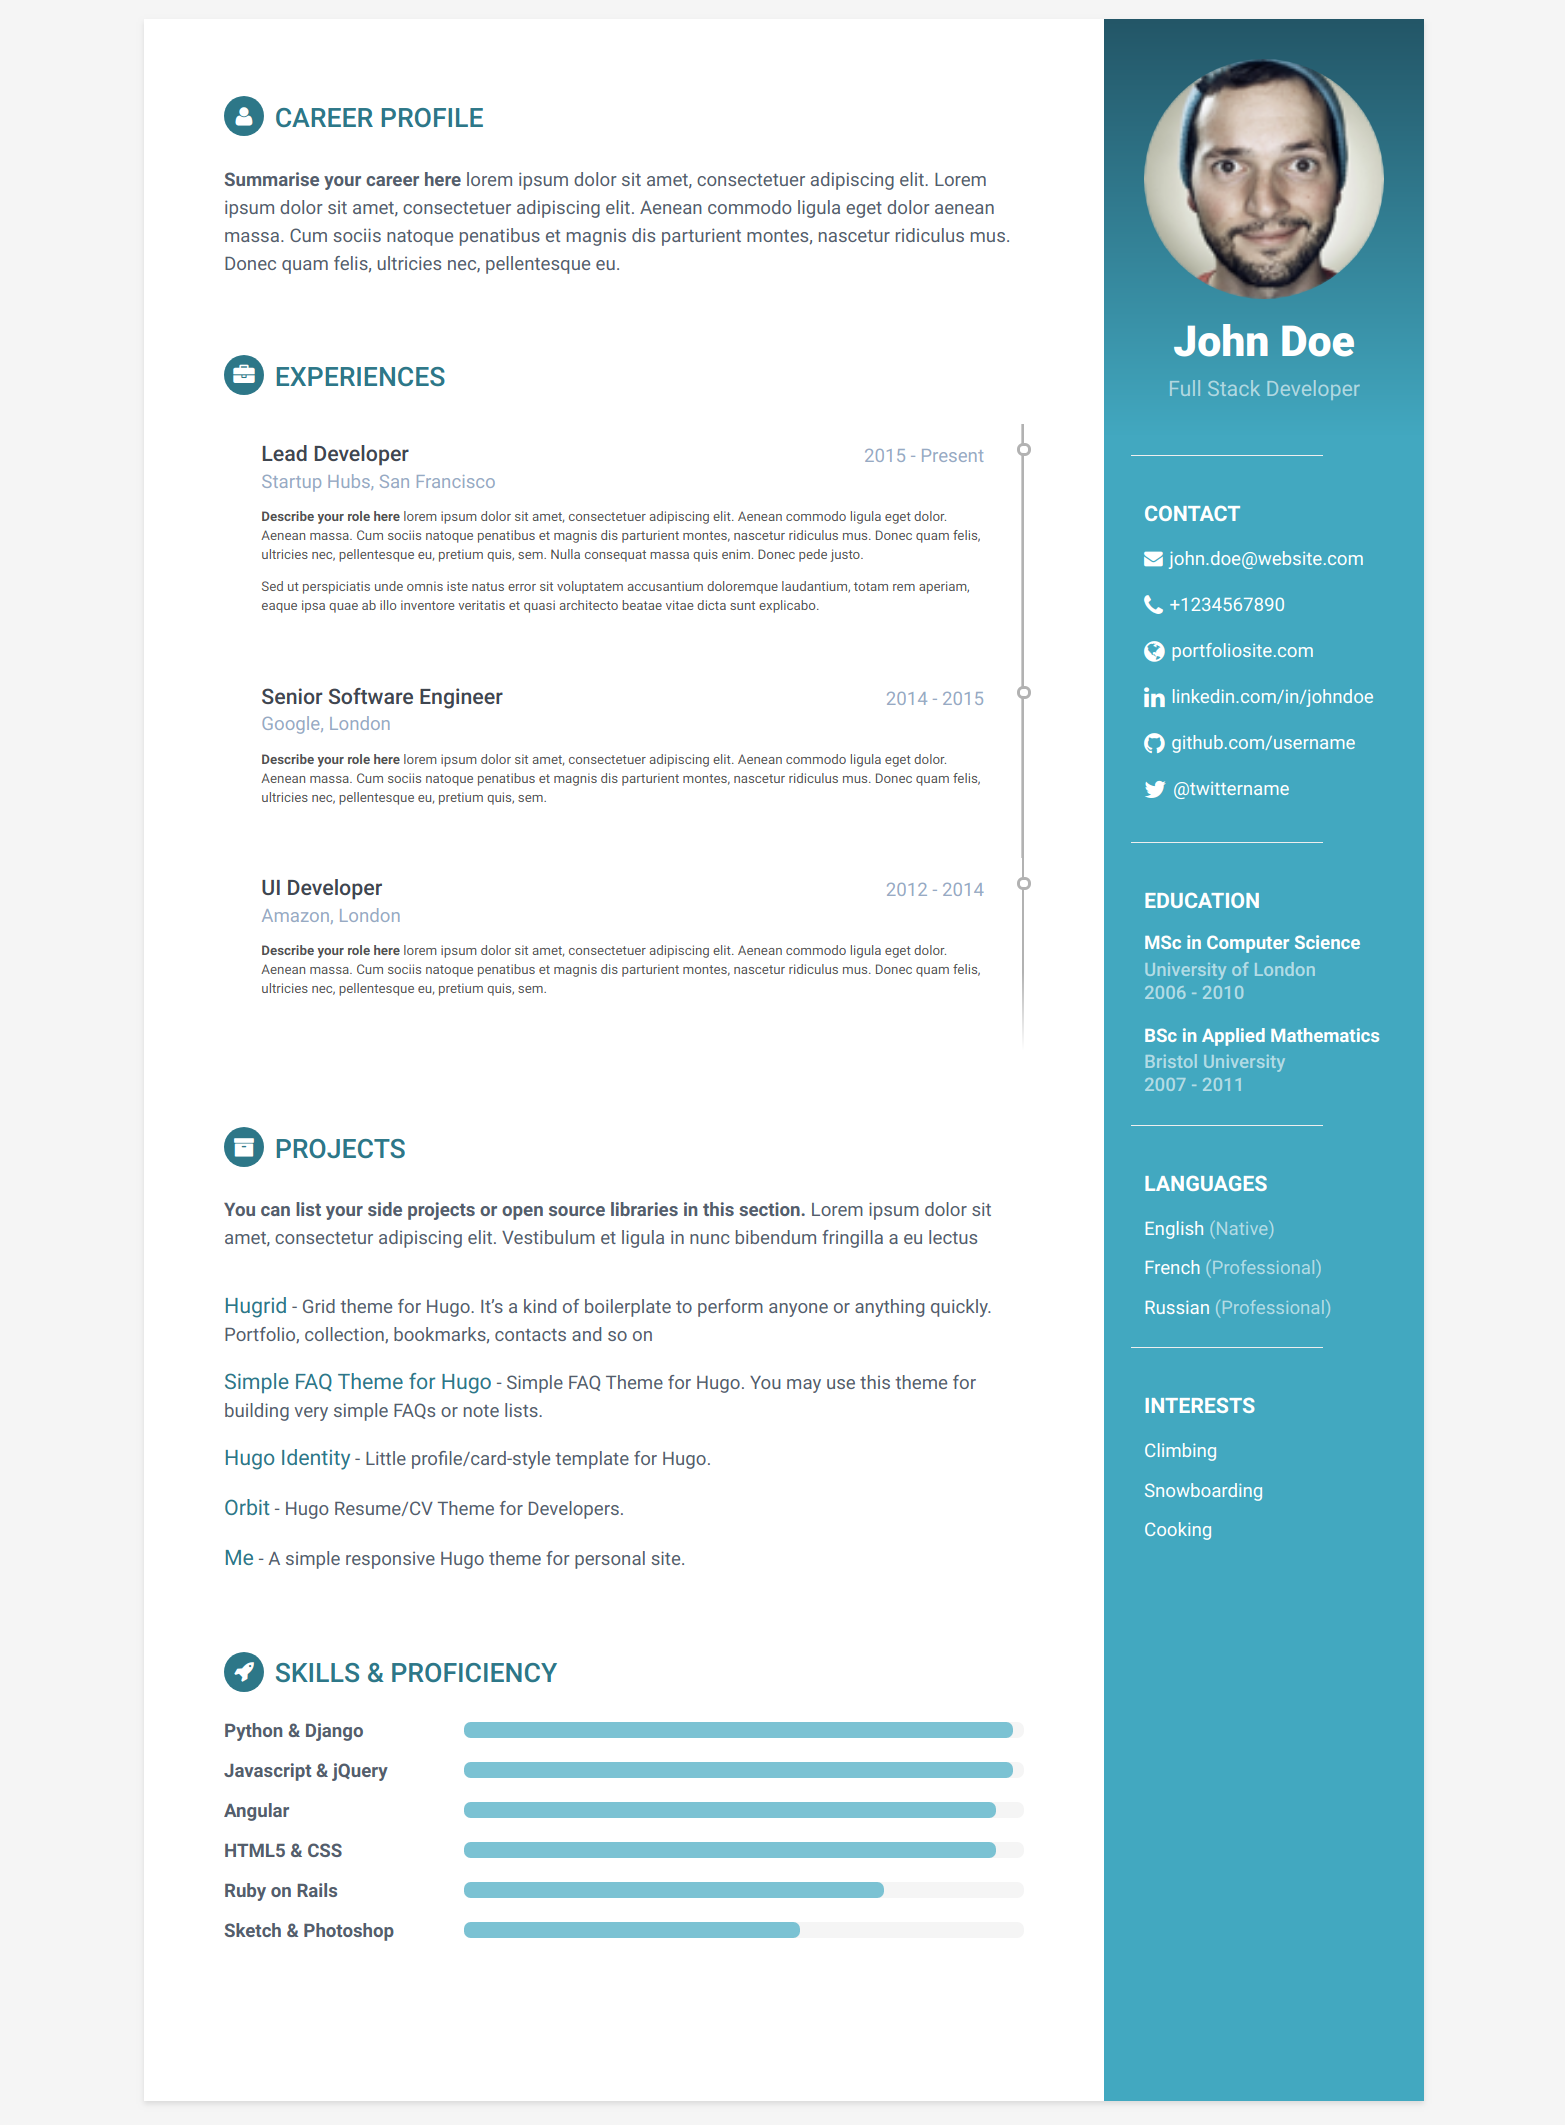
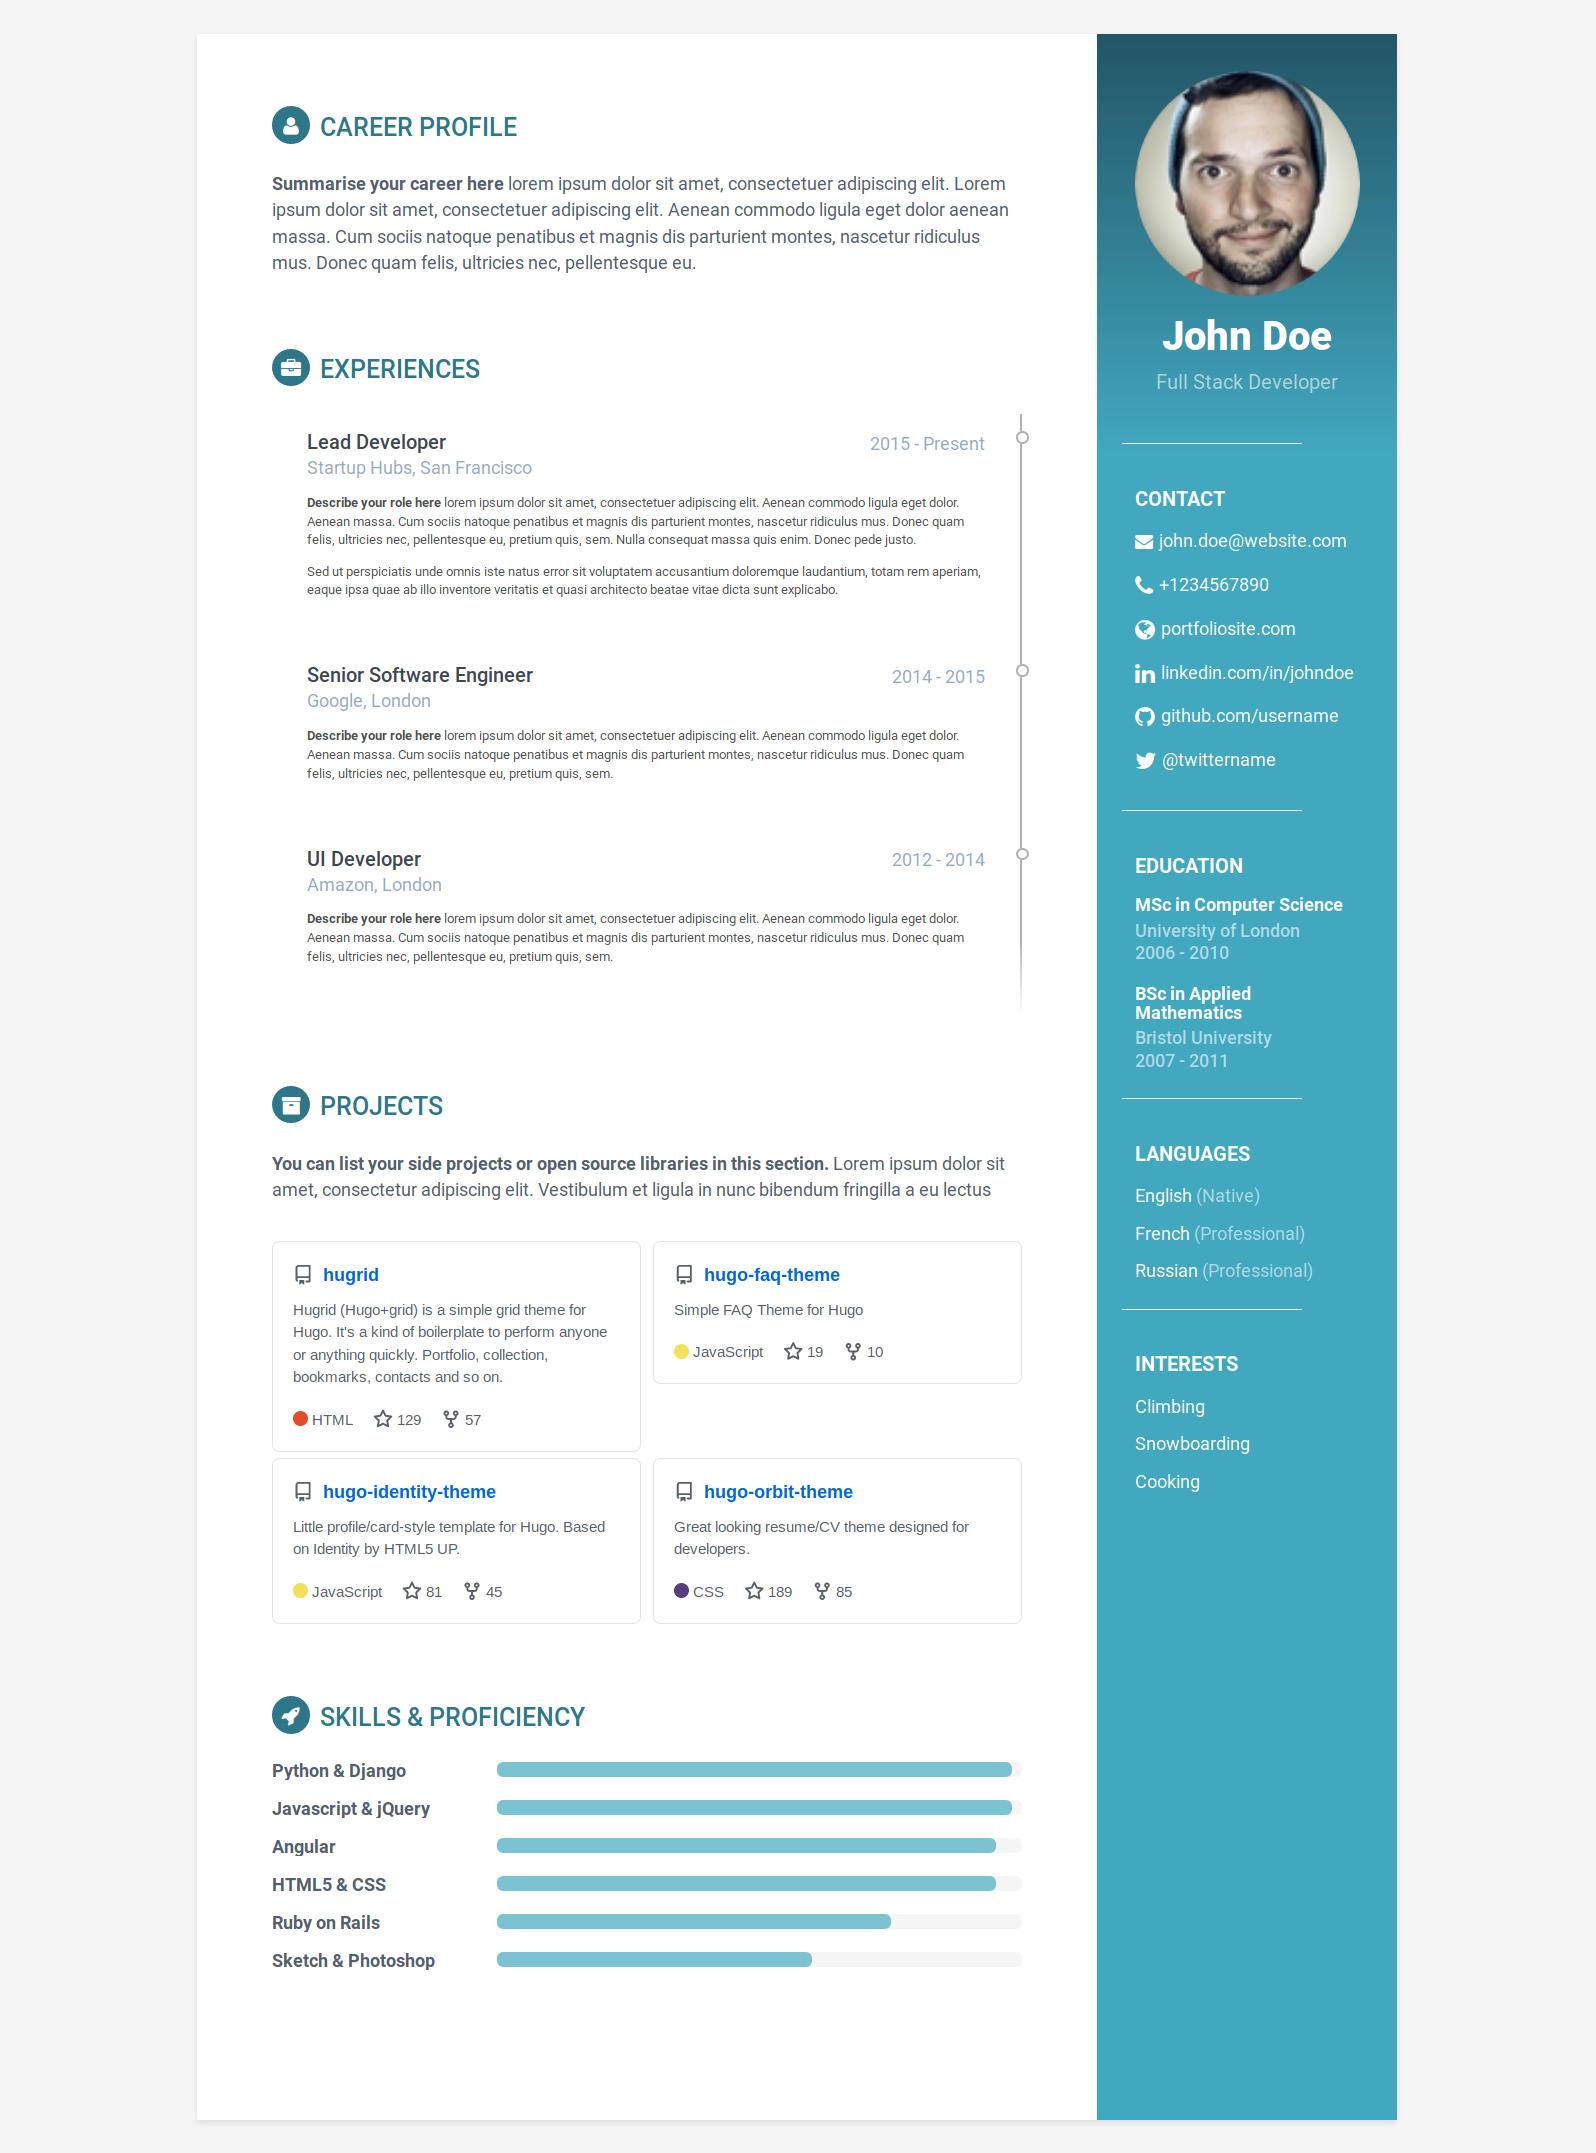
refactor: Update repo-card plugin

diff --git a/static/assets/plugins/repo-card/repo-card.js b/static/assets/plugins/repo-card/repo-card.js
@@ -1,0 +1,53 @@
+window.addEventListener('DOMContentLoaded', async function() {
+    async function get(url) {
+        const resp = await fetch(url);
+        return resp.json();
+    }
+
+    const emojis = await get('https://api.github.com/emojis');
+    const colors = await get('https://raw.githubusercontent.com/ozh/github-colors/master/colors.json');
+
+    document.querySelectorAll('.repo-card').forEach(async function(el) {
+        const name = el.getAttribute('data-repo');
+
+        const data = await get(`https://api.github.com/repos/${name}`);
+
+        data.description = (data.description || '').replace(/:\w+:/g, function(match) {
+            const name = match.substring(1, match.length - 1);
+            const emoji = emojis[name];
+
+            if (emoji) {
+                return `<span><img src="${emoji}" style="width: 1rem; height: 1rem; vertical-align: -0.2rem;"></span>`;
+            }
+
+            return match;
+        });
+
+        el.innerHTML = `
+    <div style="font-family: -apple-system,BlinkMacSystemFont,Segoe UI,Helvetica,Arial,sans-serif,Apple Color Emoji,Segoe UI Emoji; border: 1px solid #e1e4e8; border-radius: 6px; background: white; padding: 16px; font-size: 14px; line-height: 1.5; color: #24292e;">
+      <div style="display: flex; align-items: center;">
+        <svg style="fill: #586069; margin-right: 8px;" viewBox="0 0 16 16" version="1.1" width="16" height="16" aria-hidden="true"><path fill-rule="evenodd" d="M2 2.5A2.5 2.5 0 014.5 0h8.75a.75.75 0 01.75.75v12.5a.75.75 0 01-.75.75h-2.5a.75.75 0 110-1.5h1.75v-2h-8a1 1 0 00-.714 1.7.75.75 0 01-1.072 1.05A2.495 2.495 0 012 11.5v-9zm10.5-1V9h-8c-.356 0-.694.074-1 .208V2.5a1 1 0 011-1h8zM5 12.25v3.25a.25.25 0 00.4.2l1.45-1.087a.25.25 0 01.3 0L8.6 15.7a.25.25 0 00.4-.2v-3.25a.25.25 0 00-.25-.25h-3.5a.25.25 0 00-.25.25z"></path></svg>
+        <span style="font-weight: 600; color: #0366d6;">
+          <a style="text-decoration: none; color: inherit;" href="${data.html_url}">${data.name}</a>
+        </span>
+      </div>
+      <div style="display: ${data.fork ? 'block' : 'none'}; font-size: 12px; color: #586069;">Forked from <a style="color: inherit; text-decoration: none;" href="${data.fork ? data.source.html_url : ''}">${data.fork ? data.source.full_name : ''}</a></div>
+      <div style="font-size: 12px; margin-bottom: 16px; margin-top: 8px; color: #586069;">${data.description}</div>
+      <div style="font-size: 12px; color: #586069; display: flex;">
+        <div style="${data.language ? '' : 'display: none'}; margin-right: 16px;">
+          <span style="width: 12px; height: 12px; border-radius: 100%; background-color: ${data.language ? colors[data.language].color : ''}; display: inline-block; top: 1px; position: relative;"></span>
+          <span>${data.language}</span>
+        </div>
+        <div style="display: ${data.stargazers_count == 0 ? 'none' : 'flex'}; align-items: center; margin-right: 16px;">
+          <svg style="fill: #586069;" aria-label="stars" viewBox="0 0 16 16" version="1.1" width="16" height="16" role="img"><path fill-rule="evenodd" d="M8 .25a.75.75 0 01.673.418l1.882 3.815 4.21.612a.75.75 0 01.416 1.279l-3.046 2.97.719 4.192a.75.75 0 01-1.088.791L8 12.347l-3.766 1.98a.75.75 0 01-1.088-.79l.72-4.194L.818 6.374a.75.75 0 01.416-1.28l4.21-.611L7.327.668A.75.75 0 018 .25zm0 2.445L6.615 5.5a.75.75 0 01-.564.41l-3.097.45 2.24 2.184a.75.75 0 01.216.664l-.528 3.084 2.769-1.456a.75.75 0 01.698 0l2.77 1.456-.53-3.084a.75.75 0 01.216-.664l2.24-2.183-3.096-.45a.75.75 0 01-.564-.41L8 2.694v.001z"></path></svg>
+          &nbsp; <span>${data.stargazers_count}</span>
+        </div>
+        <div style="display: ${data.forks == 0 ? 'none' : 'flex'}; align-items: center;">
+          <svg style="fill: #586069;" aria-label="fork" viewBox="0 0 16 16" version="1.1" width="16" height="16" role="img"><path fill-rule="evenodd" d="M5 3.25a.75.75 0 11-1.5 0 .75.75 0 011.5 0zm0 2.122a2.25 2.25 0 10-1.5 0v.878A2.25 2.25 0 005.75 8.5h1.5v2.128a2.251 2.251 0 101.5 0V8.5h1.5a2.25 2.25 0 002.25-2.25v-.878a2.25 2.25 0 10-1.5 0v.878a.75.75 0 01-.75.75h-4.5A.75.75 0 015 6.25v-.878zm3.75 7.378a.75.75 0 11-1.5 0 .75.75 0 011.5 0zm3-8.75a.75.75 0 100-1.5.75.75 0 000 1.5z"></path></svg>
+          &nbsp; <span>${data.forks}</span>
+        </div>
+      </div>
+    </div>
+    `;
+    });
+});

diff --git a/layouts/partials/scripts.html b/layouts/partials/scripts.html
@@ -1,6 +1,6 @@
     <!-- Javascript -->          
     <script type="text/javascript" src="{{ .Site.BaseURL }}assets/plugins/jquery-1.11.3.min.js"></script>
     <script type="text/javascript" src="{{ .Site.BaseURL }}assets/plugins/bootstrap/js/bootstrap.min.js"></script>
-    <script src="https://tarptaeya.github.io/repo-card/repo-card.js"></script>
+    <script type="text/javascript" src="{{ .Site.BaseURL }}assets/plugins/repo-card/repo-card.js"></script>
     <!-- custom js -->
     <script type="text/javascript" src="{{ .Site.BaseURL }}assets/js/main.js"></script>

diff --git a/static/assets/plugins/repo-card/README.md b/static/assets/plugins/repo-card/README.md
@@ -1,0 +1,27 @@
+# Repo-Card
+:sunglasses: showcase :octocat: repositories on your website :metal:!
+
+## Demo
+<img src="https://github.com/Tarptaeya/repo-card/blob/master/screenshot.png" width=410></img>
+
+For a live demo, visit [https://tarptaeya.github.io/repo-card](https://tarptaeya.github.io/repo-card).
+
+## Usage
+```
+<!-- head -->
+<script src="https://tarptaeya.github.io/repo-card/repo-card.js"></script>
+
+
+<!-- inside body, where you want to create the card -->
+<div class="repo-card" data-repo="username/repository"></div>
+```
+
+## Features
+- Supports GitHub emojis
+- Supports language colors
+- Hides stars and forks when their count is 0.
+- Shows the source repository in case of fork.
+- Creates card similar to GitHub pinned repository's style
+
+### Thanks
+- [ozh/github-colors](https://github.com/ozh/github-colors) for providing GitHub colors for all the languages.
